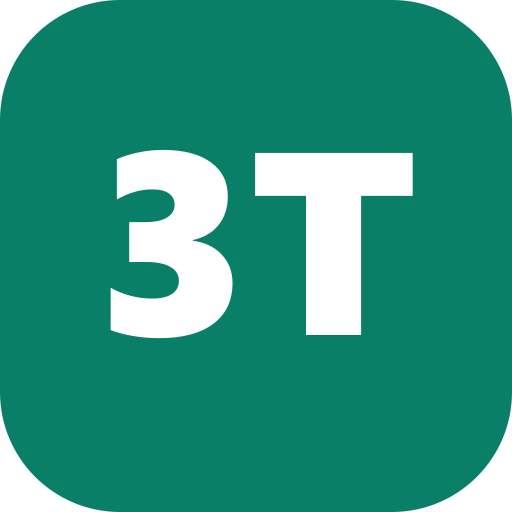
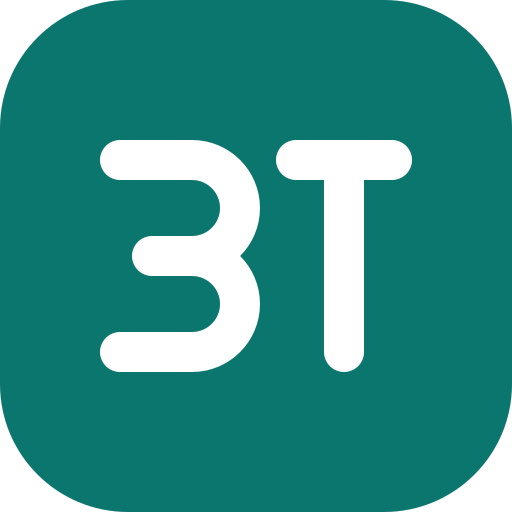
Replace full-name branding with a compact geometric 3T mark

diff --git a/src/app/frame.css b/src/app/frame.css
@@ -477,10 +477,6 @@ main > a:first-child {
   padding: 32px 24px;
 }
 .welcome-brand {
-  color: var(--accent);
-  font-size: 44px;
-  font-weight: 600;
-  letter-spacing: -3px;
   margin-bottom: 28px;
 }
 .welcome-page h1 {
@@ -628,26 +624,13 @@ textarea {
 .app-brand {
   display: flex;
   align-items: center;
-  gap: 10px;
+  width: fit-content;
+  min-height: 44px;
   margin: 0 10px 40px;
 }
-.app-brand > span,
-.mobile-brand {
-  font-size: 36px;
-  letter-spacing: -3px;
-  font-weight: 600;
-  color: var(--accent);
-}
-.app-brand > div {
-  font-size: 12px;
-  font-weight: 600;
-}
-.app-brand small {
+.brand-mark {
   display: block;
-  margin-top: 7px;
-  color: var(--muted);
-  font-size: 8px;
-  letter-spacing: 1px;
+  flex-shrink: 0;
 }
 .app-sidebar nav {
   display: grid;
@@ -1132,8 +1115,10 @@ fieldset {
     padding: 26px 22px 110px;
   }
   .mobile-brand {
-    display: block;
-    font-size: 32px;
+    display: inline-flex;
+    align-items: center;
+    min-width: 44px;
+    min-height: 44px;
   }
   .app-breadcrumb {
     display: none;

diff --git a/src/components/app-frame.tsx b/src/components/app-frame.tsx
@@ -2,6 +2,7 @@
 import Link from "next/link";
 import { usePathname } from "next/navigation";
 import { useEffect, useState, useSyncExternalStore } from "react";
+import BrandMark from "./brand-mark";
 import {
   Home,
   CalendarDays,
@@ -110,8 +111,7 @@ export default function AppFrame({
       </a>
       <aside className="app-sidebar">
         <Link href="/" className="app-brand" aria-label="3T · Trang chủ">
-          <span>3T</span>
-          <div>Thích Tính Tiền</div>
+          <BrandMark />
         </Link>
         <nav aria-label="Điều hướng chính">
           {mainLinks.map(({ href, label, icon: Icon }) => (
@@ -129,7 +129,7 @@ export default function AppFrame({
       <div className="app-content">
         <header className="app-header">
           <Link href="/" className="mobile-brand" aria-label="3T · Trang chủ">
-            3T
+            <BrandMark size={36} />
           </Link>
           <span className="app-breadcrumb">
             <strong>{title}</strong>

diff --git a/src/app/join/[token]/page.tsx b/src/app/join/[token]/page.tsx
@@ -3,6 +3,7 @@ import { notFound, redirect } from "next/navigation";
 import { createHash } from "node:crypto";
 import { supabase } from "@/lib/supabase";
 import JoinGroupForm from "@/components/join-group-form";
+import BrandMark from "@/components/brand-mark";
 import { logout } from "@/app/actions";
 import { z } from "zod";
 const invitationSchema = z.object({
@@ -34,7 +35,7 @@ export default async function Join({
   return (
     <main className="auth-page">
       <Link className="auth-brand" href="/" aria-label="3T · Thích Tính Tiền">
-        <span>3T</span> Thích Tính Tiền
+        <BrandMark size={52} />
       </Link>
       <section className="login-card auth-card">
         {error || !invitation.success ? (

diff --git a/src/components/auth-page.tsx b/src/components/auth-page.tsx
@@ -7,6 +7,7 @@ import { authErrorMessage } from "@/lib/auth-errors";
 import { localDevelopmentEnabled } from "@/lib/local-development";
 import { localAccounts } from "@/lib/local-development-config.mjs";
 import LoginButton from "./login-button";
+import BrandMark from "./brand-mark";
 export default function AuthPage({
   mode,
   params,
@@ -26,7 +27,7 @@ export default function AuthPage({
         href="/login"
         aria-label="3T · Thích Tính Tiền"
       >
-        <span>3T</span> Thích Tính Tiền
+        <BrandMark size={52} />
       </Link>
       <section className="login-card auth-card" aria-labelledby="auth-title">
         {sent ? (

diff --git a/src/app/welcome/page.tsx b/src/app/welcome/page.tsx
@@ -2,6 +2,7 @@ import { redirect } from "next/navigation";
 import { supabase } from "@/lib/supabase";
 import { logout } from "@/app/actions";
 import { verifiedSuperAdmin } from "@/lib/super-admin-access";
+import BrandMark from "@/components/brand-mark";
 export default async function Welcome() {
   const db = await supabase();
   const {
@@ -19,7 +20,7 @@ export default async function Welcome() {
   return (
     <main className="welcome-page">
       <div className="welcome-brand" aria-label="3T · Thích Tính Tiền">
-        3T
+        <BrandMark size={56} />
       </div>
       <section>
         <h1>Chờ lời mời từ nhóm bạn</h1>

diff --git a/src/app/auth.css b/src/app/auth.css
@@ -7,20 +7,6 @@
   display: flex;
   align-items: center;
   justify-content: center;
-  gap: 10px;
-  color: var(--ink);
-  font-size: 14px;
-  font-weight: 600;
-}
-.auth-brand > span {
-  display: grid;
-  place-items: center;
-  width: 40px;
-  height: 40px;
-  border-radius: 10px;
-  background: var(--accent);
-  color: white;
-  font-size: 20px;
 }
 .auth-card {
   width: 100%;

diff --git a/public/sw.js b/public/sw.js
@@ -1,6 +1,6 @@
 /* Only these public fallback assets are cached. Never cache an authenticated
  * navigation, API response, RSC payload or payment request. */
-const CACHE = "3t-public-v1";
+const CACHE = "3t-public-v2";
 const PUBLIC_ASSETS = ["/offline.html", "/icon-192.png"];
 self.addEventListener("install", (event) => {
   event.waitUntil(

diff --git a/src/app/theme.css b/src/app/theme.css
@@ -150,13 +150,6 @@ body {
   color: var(--nav-ink);
   border-right-color: #26344a;
 }
-.app-sidebar .app-brand > span {
-  color: var(--nav-accent);
-}
-.app-sidebar .app-brand small {
-  color: var(--nav-muted);
-  font-size: 9px;
-}
 .app-sidebar nav a {
   position: relative;
   color: var(--nav-muted);

diff --git a/src/components/brand-mark.tsx b/src/components/brand-mark.tsx
@@ -1,0 +1,14 @@
+import Image from "next/image";
+
+export default function BrandMark({ size = 48 }: { size?: number }) {
+  return (
+    <Image
+      className="brand-mark"
+      src="/icon.svg"
+      alt="3T"
+      width={size}
+      height={size}
+      unoptimized
+    />
+  );
+}

diff --git a/src/app/workspace.css b/src/app/workspace.css
@@ -66,7 +66,6 @@
 }
 .app-brand {
   margin: 0 6px 24px;
-  gap: 8px;
 }
 .app-content {
   margin-left: 208px;
